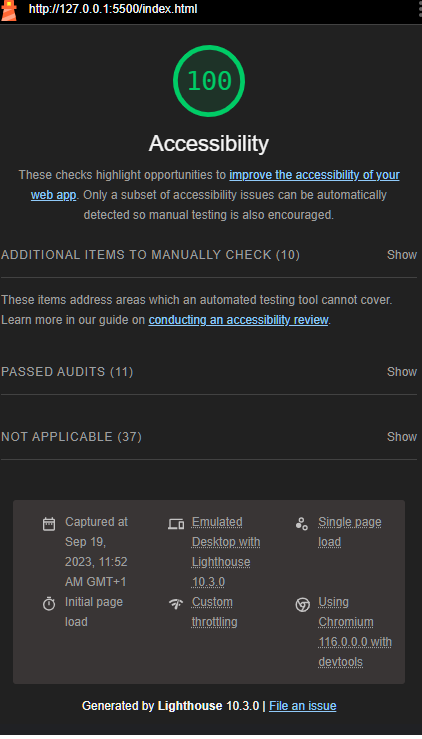
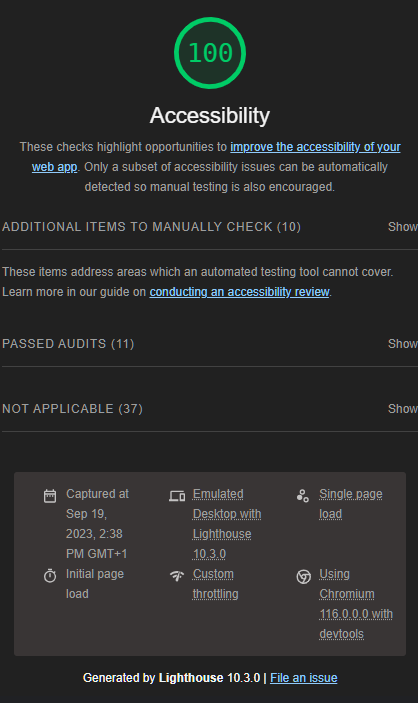
Update Lighthouse screenshot

diff --git a/README.md b/README.md
@@ -2,4 +2,4 @@
 
 This is lab work for the Tech Educators bootcamp.
 
-![The Lighthouse score for my web page](./lighthouse.png)
+![The Lighthouse score for my web page](./images//lighthouse.png)
